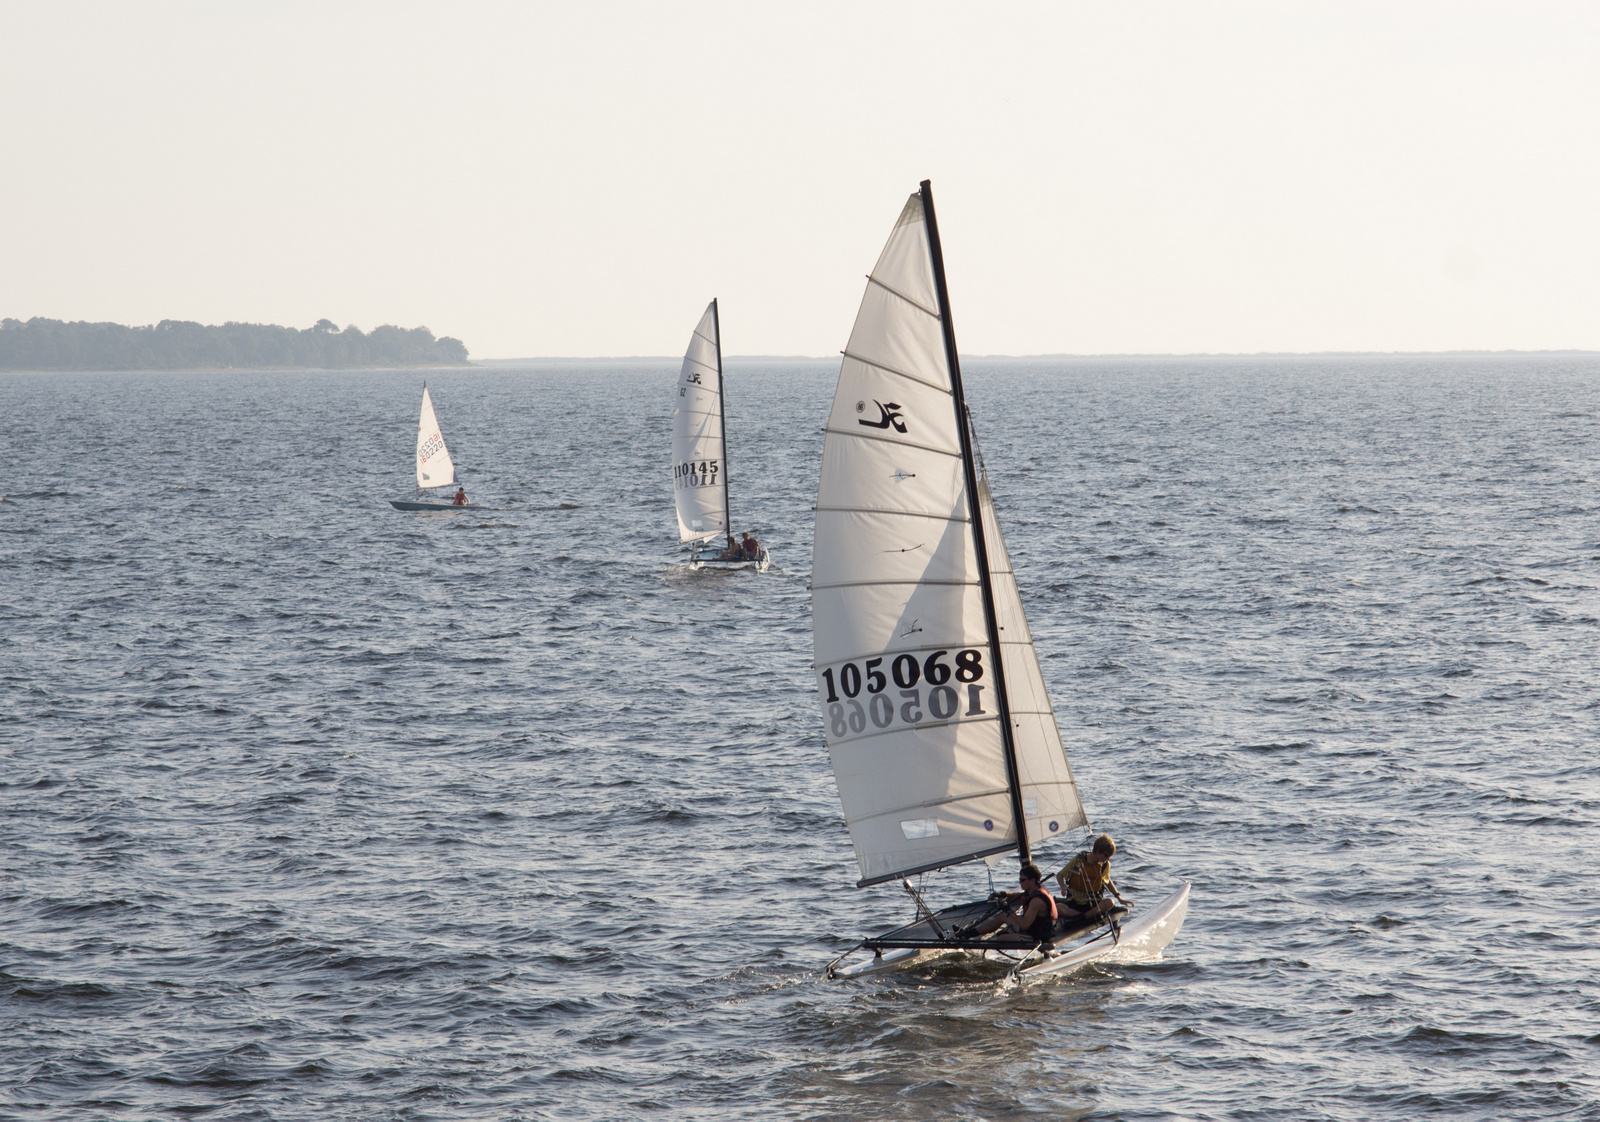
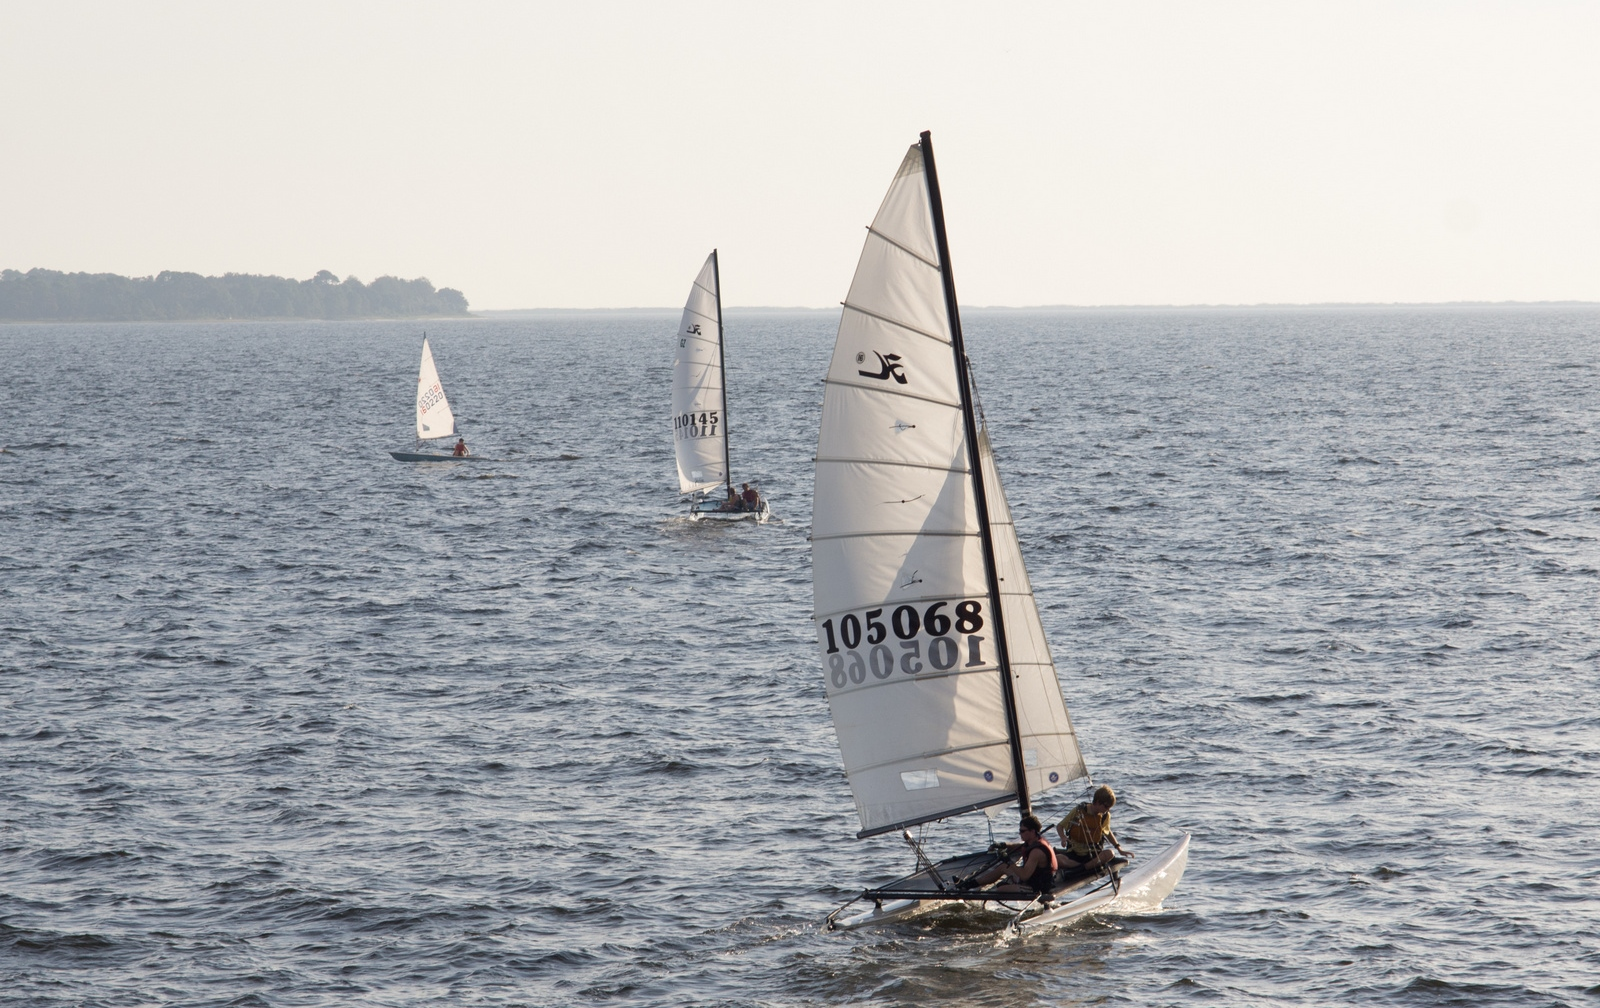
Added construction.html to use when we don't want users going to a page yet. Only use when releasing website or when page does not exist yet. Updated many pages whose background image alts were incorrect. Cropped background images to 1.6:1 ratio (ratio of many computer screens). Added some content t

diff --git a/root/construction.html b/root/construction.html
@@ -1,0 +1,13 @@
+<!DOCTYPE html>
+
+<html>
+<head>
+	<title>GT Sailing Construction</title>
+</head>
+<body>
+	<h1>This Page is Under Construction!</h1>
+	<p>
+		Please use the back button to return to the website.
+	</p>
+</body>
+</html>

diff --git a/root/raceteam/raceteam.content.php b/root/raceteam/raceteam.content.php
@@ -1,17 +1,20 @@
 <div id="activity" class="fixed">
-	<img alt="420s downwind" class="background" src="/images/backgrounds/saisa open fall 2013 upwind.jpg" />
+	<img alt="SAISA Open Fall 2013 upwind" class="background" src="/images/backgrounds/saisa open fall 2013 upwind.jpg" />
 	<div id="activity_d" class="dark">
 		<h2>Many Regattas Every Semester</h2>
+		<p>
+			During the 2013-2014 year, we went to 9 regattas in the Fall and 8 in the Spring&mdash;and we plan to attend even more next year!
+		</p>
 	</div>
 </div>
 <div id="practices" class="fixed">
-	<img alt="420s downwind" class="background" src="/images/backgrounds/glass at eckerd.jpg" />
+	<img alt="racing upwind at LLSC" class="background" src="/images/backgrounds/racing upwind llsc.jpg" />
 	<div id="practices_d" class="dark">
 		<h2>Weekly Practices</h2>
 	</div>
 </div>
 <div id="funding" class="dynamic">
-	<img id="sga" alt="420s downwind" src="/images/backgrounds/SGA-3.jpg" />
+	<img id="sga" alt="sga" src="/images/backgrounds/SGA-3.jpg" />
 	<div id="funding_d" class="dark">
 		<h2>School Funding</h2>
 		<p>
@@ -19,6 +22,15 @@
 			This means that the sailors who go to the event have to split gas, vehicle rental, and hotel expenses.
 			Fortunately, the CRC has SUVs and 12 passenger vans that we can rent for only $35 per day.
 			We also have a lot of amazing alumni and friends who let us stay at their houses for free.
+		</p>
+	</div>
+</div>
+<div id="collegesailing" class="fixed">
+	<img alt="glass at eckerd" class="background" src="/images/backgrounds/glass%20at%20eckerd.jpg" />
+	<div id="icsa" class="dark">
+		<h2>Inter-Collegiate Sailing Association</h2>
+		<p>
+			TODO add links to college sailing resources
 		</p>
 	</div>
 </div>

diff --git a/root/rules/rules.content.php b/root/rules/rules.content.php
@@ -31,12 +31,12 @@
 				In addition, a lakehost should be:
 			</p>
 			<ul>
-				<li>at least 420 or windsurf <a href="#qualification">skipper qualified</a></li>
+				<li>at least 420 or windsurf <a href="#certification">skipper certified</a></li>
 				<li>a member of GTSC for at least one year</li>
 				<li>plan on being a member of GTSC for at least one more year</li>
 			</ul>
 			<p>
-				To become a lakehost, a student must be appointed by GTSC exec and must complete the <a href="documents/LLSC_Member_Application.pdf" target="_blank">LLSC membership application form</a> and submit it to the current secretary of LLSC.
+				To become a lakehost, a student must be appointed by GTSC exec and must complete the <a href="/documents/LLSC_Member_Application.pdf" target="_blank">LLSC membership application form</a> and submit it to the current secretary of LLSC.
 			</p>
 		</div>
 	</div>
@@ -46,9 +46,9 @@
 	<div id="cert" class="dark">
 		<h2>Skipper Certification</h2>
 		<p>
-			In order to protect our <a href="#">equipment</a> and our members, we have developed a strict skipper certification process.
+			In order to protect our <a href="/fleet">equipment</a> and our members, we have developed a strict skipper certification process.
 			Each fleet has a different process that is intended to ensure that only members who have demonstrated mastery of the skills required to sail that specific boat.
-			For more information about skipper certification, <a href="#">click here</a>.
+			For more information about skipper certification, <a href="/certification">click here</a>.
 		</p>
 	</div>
 </div>

diff --git a/root/fleet/fleet.content.php b/root/fleet/fleet.content.php
@@ -1,23 +1,23 @@
 <div id="c420s" class="fixed">
-	<img alt="420s downwind" class="background" src="/images/backgrounds/P1090065-X2.jpg" />
+	<img alt="420s" class="background" src="/images/backgrounds/P1090065-X2.jpg" />
 	<div id="c420_d" class="dark">
 		<h2>6 Club Rigged 420s</h2>
 	</div>
 </div>
 <div id="j24s" class="fixed">
-	<img alt="420s downwind" class="background" src="/images/backgrounds/DSCF0972.jpg" />
+	<img alt="J-24s" class="background" src="/images/backgrounds/DSCF0972.jpg" />
 	<div id="j24_d" class="dark">
 		<h2>2 J-24s</h2>
 	</div>
 </div>
 <div id="lasers" class="fixed">
-	<img alt="420s downwind" class="background" src="/images/backgrounds/LaserDownwindPanorama4.jpg" />
+	<img alt="Lasers downwind" class="background" src="/images/backgrounds/LaserDownwindPanorama4.jpg" />
 	<div id="laser_d" class="dark">
 		<h2>5 Lasers</h2>
 	</div>
 </div>
 <div id="hobies" class="fixed">
-	<img alt="420s downwind" class="background" src="/images/backgrounds/DSC09695_ed fall break 2012.jpg" />
+	<img alt="hobies" class="background" src="/images/backgrounds/DSC09695_ed fall break 2012.jpg" />
 	<div id="hobies_d" class="light">
 		<h2>3 Hobies</h2>
 	</div>
